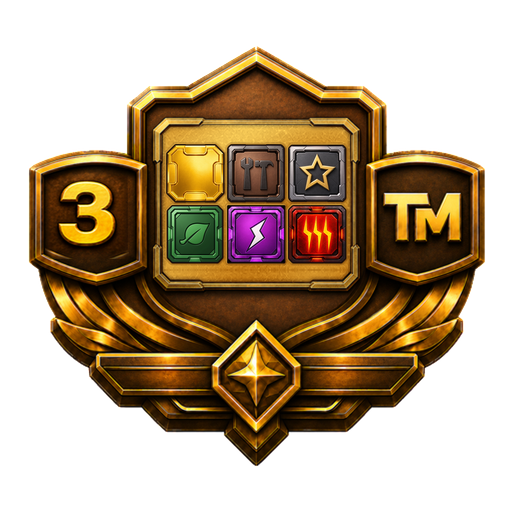
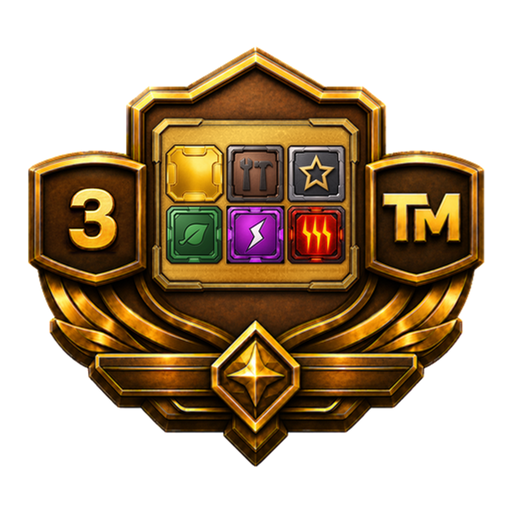
Merchant3 + Physicist · generated premium badges replace phase 1's composites (Merchant's shield with an engraved «3» · Traveller's fused pair with the science and space tags set into their bezels); the fit entries measure the same; worklist record

Changed region(s): [[0.0312, 0.0938, 0.9688, 0.9062], [0.5938, 0.625, 0.6562, 0.6562]]

diff --git a/docs/claude/ma-premium-icons-worklist.md b/docs/claude/ma-premium-icons-worklist.md
@@ -34,12 +34,12 @@
 | 14 | ✅ **Constructor** | модульная, нужны Колонии | Больше всех колоний + городов вместе (ярусы небоскрёба считаются каждый) | колония + город, с крыльями | `highlander` (пара): слева ТРЕУГОЛЬНОЕ гнездо с плиткой колонии, справа шестиугольное с городом, сросшиеся — сгенерированный арт (заменил композит фазы 1) |
 | 15 | ✅ **Suburbian** | модульная | Больше всех своих плиток на краевых клетках поля (опасности не считаются) | шестиугольник с оранжевым краем и белым центром | `landscaper` (соты в медальоне): шесть белых плиток кольцом, центр пуст — родственник `edgedancer` (в одной партии не встречаются, группа `edge-tiles`) |
 
-## Пришли с Amazonis Planitia (апстрим fc8bd8e0e1, 2026-11-06) — сделаны композитами семьи (3)
+## Пришли с Amazonis Planitia (апстрим fc8bd8e0e1, 2026-11-06) (3)
 
-2026-11-06 (фаза 1 карты): Merchant3 = `merchant` с плашкой «3» из `sponsor`; Innovator — композит (карта в полосах, почти двойник
-`administrator`) заменён сгенерированным веером трёх карт; Physicist = `traveller` с медальонами `scientist` +
-`space-baron`; Constructor (№14) — композит заменён сгенерированным артом того же каркаса (треугольник колонии + шестиугольник города).
-Подгонка (`maArtFit.json`) — запись базы. Владелец может заменить любой своим артом.
+Фаза 1 карты (2026-11-06) закрыла их композитами семьи; 2026-11-07 все четыре композита (вместе с Constructor №14) заменены
+сгенерированным артом тех же каркасов: Merchant3 — правка `merchant` (только цифра «3», гравировка в тон «TM»); Innovator —
+веер трёх карт (композит был почти двойником `administrator`); Physicist — пара `traveller`, метки науки и космоса утоплены
+в оправы; Constructor — треугольник колонии + шестиугольник города. Подгонка (`maArtFit.json`) — та же, что у семьи.
 
 Печатный набор карты: вехи Terran5 · Landshaper · Merchant3 · Sponsor · Activist (без Парламента — Terraformer29), награды
 Collector · Innovator · Constructor · Manufacturer · Physicist. Новые — три ниже (до фазы 1 без файла `assets/ma/<slug>.png`). Сейчас они выпадают ТОЛЬКО в печатном наборе этой карты: в случайные пулы
@@ -47,9 +47,9 @@ Innovator и Physicist войдут с фазой 2 адаптации (стро
 
 | # | Позиция | Тип | Механика (по коду) | Семья-образец |
 |---|---|---|---|---|
-| 16 | ✅ **Merchant3** | веха | После оплаты вехи остаться с 3 единицами КАЖДОГО стандартного ресурса | `merchant` один в один, плашка «3» вместо «2» (в одной партии с Merchant не встречается) |
+| 16 | ✅ **Merchant3** | веха | После оплаты вехи остаться с 3 единицами КАЖДОГО стандартного ресурса | правка `merchant`: только «3» вместо «2» (в одной партии с Merchant не встречается) — сгенерированный арт |
 | 17 | ✅ **Innovator** | награда | Больше всех сыгранных карт проектов — зелёных, синих И красных (события считаются) | крылья и камень `a-manufacturer`, вместо окна — ВЕЕР трёх карт красная / зелёная / синяя в золотых оправах (сгенерированный арт) |
-| 18 | ✅ **Physicist** | награда | Больше всех меток науки и космоса вместе | медальон / пара (`traveller`) — метки науки + космоса |
+| 18 | ✅ **Physicist** | награда | Больше всех меток науки и космоса вместе | пара `traveller`: метка науки (слева) + метка космоса (справа), утоплены в оправы (сгенерированный арт) |
 
 ## Вне пула ALL (для справки)
 
